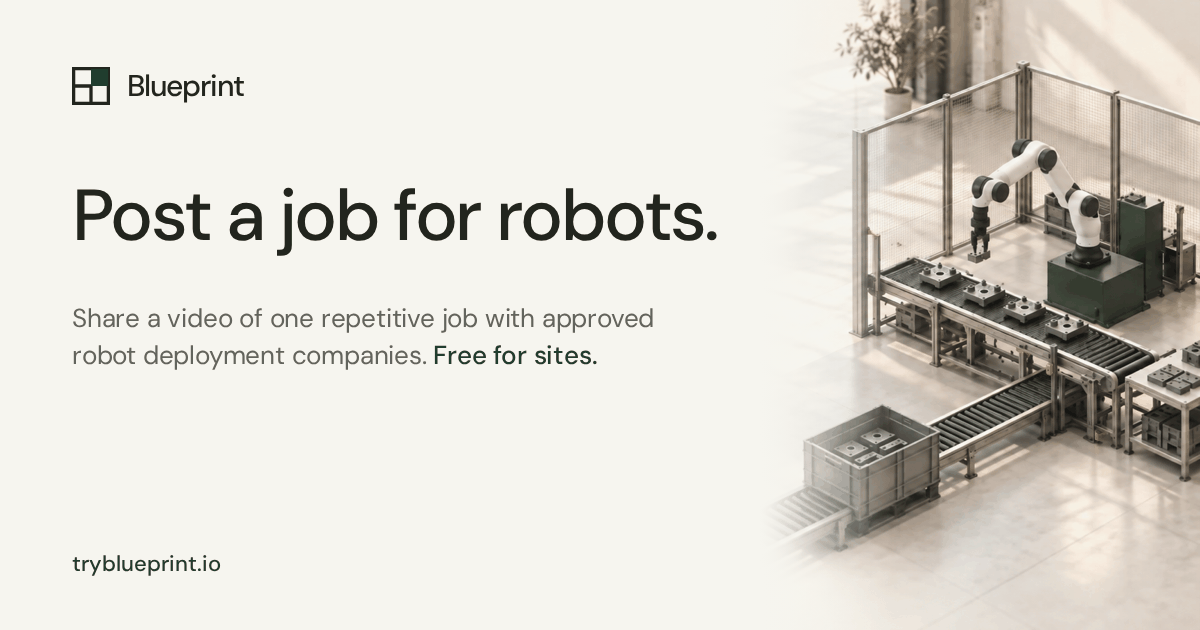
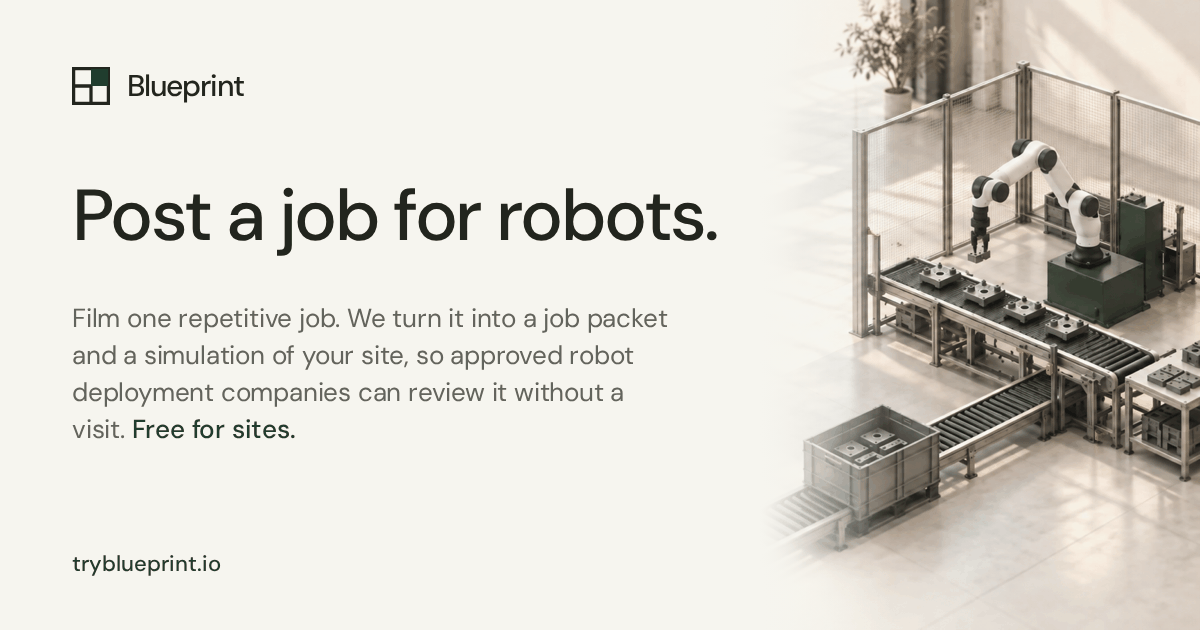
Home page line says what Blueprint builds: a job packet and a simulation companies can review without a visit
"Share a video of one repetitive job with approved robot deployment companies." becomes "Film one repetitive job. We turn it into a job packet and a simulation of your site, so approved robot deployment companies can review it without a visit." (owner, 2026-11-21). The search description, the meta tags and the share image follow. The home tests no longer forbid the words "job packet" on the home page; the other banned words stay.

Claude-Session: https://claude.ai/code/session_01M1AVLBWzhhDWmX3i8TNGA7

Changed region(s): [[0.0617, 0.4825, 0.555, 0.6937]]

diff --git a/client/index.html b/client/index.html
@@ -9,7 +9,7 @@
     <title>Blueprint | Post a job for robots.</title>
     <meta
       name="description"
-      content="Share a video of one repetitive job with approved robot deployment companies. See responses and choose who to meet. Free for sites."
+      content="Film one repetitive job. We turn it into a job packet and a simulation of your site, so approved robot deployment companies can review it without a visit. See responses and choose who to meet. Free for sites."
     />
     <link rel="preconnect" href="https://fonts.googleapis.com" />
     <link rel="preconnect" href="https://fonts.gstatic.com" crossorigin />
@@ -34,7 +34,7 @@
     <meta property="og:title" content="Blueprint | Post a job for robots." />
     <meta
       property="og:description"
-      content="Share a video of one repetitive job with approved robot deployment companies. See responses and choose who to meet. Free for sites."
+      content="Film one repetitive job. We turn it into a job packet and a simulation of your site, so approved robot deployment companies can review it without a visit. See responses and choose who to meet. Free for sites."
     />
     <meta property="og:image" content="https://tryblueprint.io/brand/og-default.png" />
     <meta property="og:image:width" content="1200" />
@@ -44,7 +44,7 @@
     <meta name="twitter:title" content="Blueprint | Post a job for robots." />
     <meta
       name="twitter:description"
-      content="Share a video of one repetitive job with approved robot deployment companies. See responses and choose who to meet. Free for sites."
+      content="Film one repetitive job. We turn it into a job packet and a simulation of your site, so approved robot deployment companies can review it without a visit. See responses and choose who to meet. Free for sites."
     />
     <meta name="robots" content="index, follow, max-image-preview:large, max-snippet:-1, max-video-preview:-1" />
 

diff --git a/client/tests/build-output.test.ts b/client/tests/build-output.test.ts
@@ -282,7 +282,7 @@ describe("build output", () => {
     const siteHtml = fs.readFileSync(distPath("contact/site-operator/index.html"), "utf8");
     const robotHtml = fs.readFileSync(distPath("contact/robot-team/index.html"), "utf8");
     expect(homeHtml).toContain("Post a job for robots.");
-    expect(homeHtml).toContain("Share a video of one repetitive job with approved robot deployment companies.");
+    expect(homeHtml).toContain("Film one repetitive job. We turn it into a job packet and a simulation of your site, so approved robot deployment companies can review it without a visit.");
     expect(homeHtml).toContain("Companies review it");
     expect(homeHtml).toContain("Choose who to meet");
     expect(homeHtml).toContain("Free for sites");
@@ -364,7 +364,7 @@ describe("build output", () => {
     // above is reading the real public bundle, so removing one because the copy
     // moved would quietly make the whole check vacuous. "Site-funded Task
     // Evaluation Run" left the site page when it stopped leading with a screen.
-    expect(browserJavaScript).toContain("Share a video of one repetitive job with approved robot deployment companies.");
+    expect(browserJavaScript).toContain("Film one repetitive job. We turn it into a job packet and a simulation of your site, so approved robot deployment companies can review it without a visit.");
     // The start form asks for the job's sentence on its first screen (owner, 2026-11-20).
     expect(browserJavaScript).toContain("Say what the robot should do in one sentence.");
   });

diff --git a/e2e/home.spec.ts b/e2e/home.spec.ts
@@ -9,7 +9,7 @@ test("homepage explains the offer and shows both paths and a labeled example", a
   const account = page.getByRole("navigation", { name: "Account" });
   await expect(account.getByRole("link", { name: "Sign in" })).toHaveAttribute("href", "/sign-in");
   const main = page.locator("main");
-  await expect(main).toContainText("Share a video of one repetitive job with approved robot deployment companies.");
+  await expect(main).toContainText("Film one repetitive job. We turn it into a job packet and a simulation of your site, so approved robot deployment companies can review it without a visit.");
   const starts = main.getByRole("link", { name: "Start a job" });
   await expect(starts).toHaveCount(1);
   await expect(starts).toHaveAttribute("href", "/contact/site-operator");
@@ -21,5 +21,5 @@ test("homepage explains the offer and shows both paths and a labeled example", a
   await expect(nav.getByRole("link", { name: "Find jobs" })).toHaveAttribute("href", "/jobs");
   await expect(main.getByRole("region", { name: "Example job" })).toBeVisible();
   await expect(main.getByRole("tabpanel")).toContainText("6 views");
-  await expect(main).not.toContainText(/job packet|pick-up-and-put-down|safety check|contact details|which did best|top AI robots/);
+  await expect(main).not.toContainText(/pick-up-and-put-down|safety check|contact details|which did best|top AI robots/);
 });

diff --git a/client/tests/pages/Home.test.tsx b/client/tests/pages/Home.test.tsx
@@ -10,12 +10,12 @@ describe("Site-led homepage", () => {
   it("says the outcome, shows three steps and offers one button", () => {
     const { container } = render(<Home />);
     expect(screen.getByRole("heading", { level: 1 })).toHaveTextContent("Post a job for robots.");
-    expect(container).toHaveTextContent("Share a video of one repetitive job with approved robot deployment companies.");
+    expect(container).toHaveTextContent("Film one repetitive job. We turn it into a job packet and a simulation of your site, so approved robot deployment companies can review it without a visit.");
     const starts = screen.getAllByRole("link", { name: "Start a job" });
     expect(starts).toHaveLength(1);
     expect(starts[0]).toHaveAttribute("href", "/contact/site-operator");
     expect(screen.getByText("Free for sites.")).toBeInTheDocument();
-    expect(container.textContent).not.toMatch(/pick-up-and-put-down|safety check|job packet|contact details/i);
+    expect(container.textContent).not.toMatch(/pick-up-and-put-down|safety check|contact details/i);
     // No price, no invented test result, no model or product names.
     expect(container.textContent).not.toMatch(/\$\s?\d|beta|did best|AI robot|AI software|how sure|confidence|%/i);
   });

diff --git a/client/src/lib/publicCopy.ts b/client/src/lib/publicCopy.ts
@@ -15,7 +15,7 @@
 import { COMPANY_RESPONSE_LABELS as ANSWER } from "./companyResponses";
 
 export const HOME_TITLE = "Post a job for robots.";
-export const HOME_SUB_LINE = "Share a video of one repetitive job with approved robot deployment companies.";
+export const HOME_SUB_LINE = "Film one repetitive job. We turn it into a job packet and a simulation of your site, so approved robot deployment companies can review it without a visit.";
 
 /**
  * The answers the company form offers (`CompanyJob.tsx`), said the same way on every public page, built from the form's
